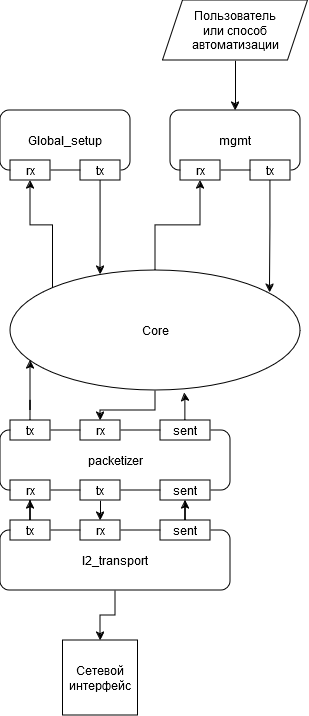
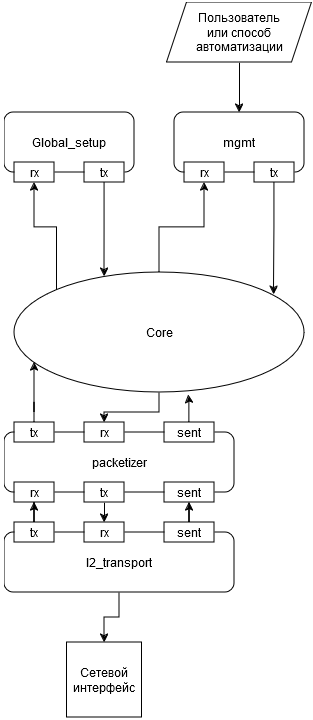
Попытка приладить картинку 3

diff --git a/README.md b/README.md
@@ -11,4 +11,4 @@
     - Packetizer - Модуль обработки пакетов, связан напрямую с l2_transport модулем
     - l2_transport - Модуль, реализующий приём/передачу пакетов
 ## Примерное представление программы
-![Optional Text](misc/diagram.svg)
+![Optional Text](misc/diagram.png)
